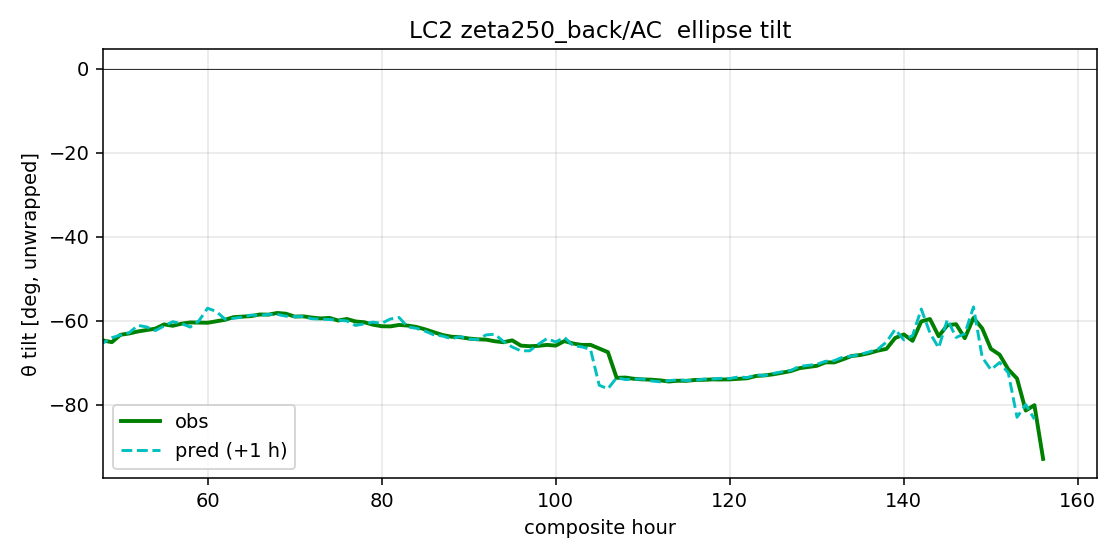
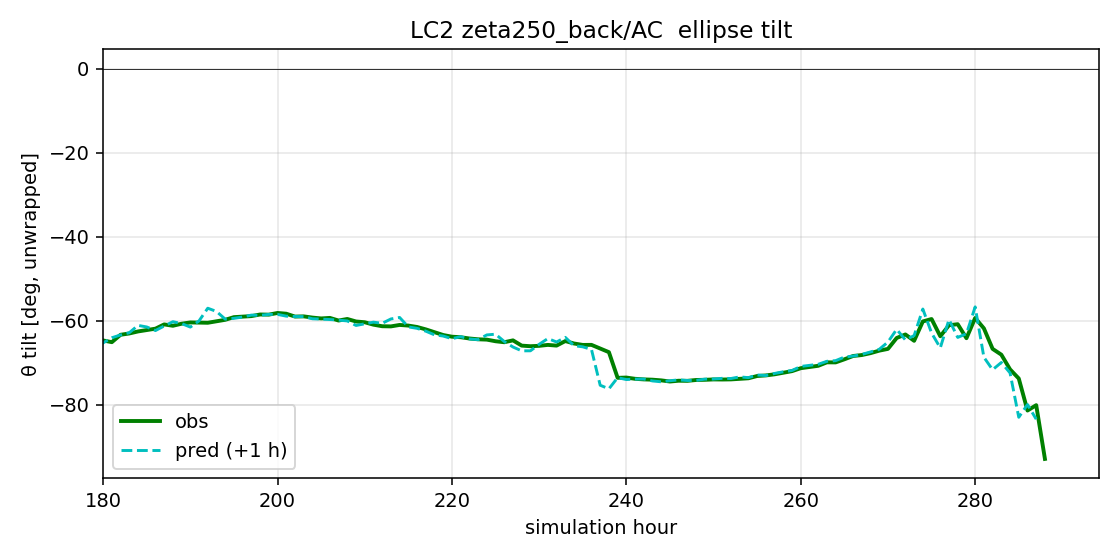
fix(v2.10.2): tilt PNG x-axis = absolute simulation hour
Previously the tilt and accumulated-tilt PNGs labelled the x-axis
'composite hour' (window-local), so even after --start_hour 180
the visible labels read 49..156 for LC2 back. Switch to plotting
against t_abs = t_hour + win_h0 and label as 'simulation hour' so
the user-requested left edge ('start from 180h') matches the tick
labels. xlim(left=start_hour_abs) sets the crop directly in
absolute hours. Animation cropping (frame range) is unchanged.

diff --git a/scripts/tilt_evolution.py b/scripts/tilt_evolution.py
@@ -279,13 +279,14 @@ def process(lc: str, method: str, polarity: str = "C",
     theta_pred_cont = _unwrap_mod180(theta_pred)
 
     fig, ax = plt.subplots(figsize=(8, 4))
-    ax.plot(t_hour, theta_obs_cont, "g-", lw=2, label="obs")
-    ax.plot(t_hour, theta_pred_cont, "c--", lw=1.5, label="pred (+1 h)")
-    ax.set_xlabel("composite hour"); ax.set_ylabel("θ tilt [deg, unwrapped]")
+    t_abs = t_hour + win_h0
+    ax.plot(t_abs, theta_obs_cont, "g-", lw=2, label="obs")
+    ax.plot(t_abs, theta_pred_cont, "c--", lw=1.5, label="pred (+1 h)")
+    ax.set_xlabel("simulation hour"); ax.set_ylabel("θ tilt [deg, unwrapped]")
     ax.set_title(f"{lc.upper()} {method}/{polarity}  ellipse tilt")
     ax.axhline(0, color="k", lw=0.4); ax.legend(); ax.grid(alpha=0.3)
-    if start_t_local is not None:
-        ax.set_xlim(left=start_t_local)
+    if start_hour_abs is not None:
+        ax.set_xlim(left=float(start_hour_abs))
     fig.tight_layout()
     fig.savefig(plots / f"theta_tilt_{polarity}.png", dpi=140)
     plt.close(fig)
@@ -305,14 +306,14 @@ def process(lc: str, method: str, polarity: str = "C",
             dth_pred[i] = dth_pred[i-1]
 
     fig, ax = plt.subplots(figsize=(8, 4))
-    ax.plot(t_hour, dth_obs, "g-", lw=2, label="∑Δθ obs")
-    ax.plot(t_hour, dth_pred, "c--", lw=1.5, label="∑Δθ pred")
-    ax.set_xlabel("composite hour")
+    ax.plot(t_abs, dth_obs, "g-", lw=2, label="∑Δθ obs")
+    ax.plot(t_abs, dth_pred, "c--", lw=1.5, label="∑Δθ pred")
+    ax.set_xlabel("simulation hour")
     ax.set_ylabel("accumulated tilt change [deg]")
     ax.set_title(f"{lc.upper()} {method}/{polarity}  accumulated tilt")
     ax.axhline(0, color="k", lw=0.4); ax.legend(); ax.grid(alpha=0.3)
-    if start_t_local is not None:
-        ax.set_xlim(left=start_t_local)
+    if start_hour_abs is not None:
+        ax.set_xlim(left=float(start_hour_abs))
     fig.tight_layout()
     fig.savefig(plots / f"theta_tilt_accum_{polarity}.png", dpi=140)
     plt.close(fig)
